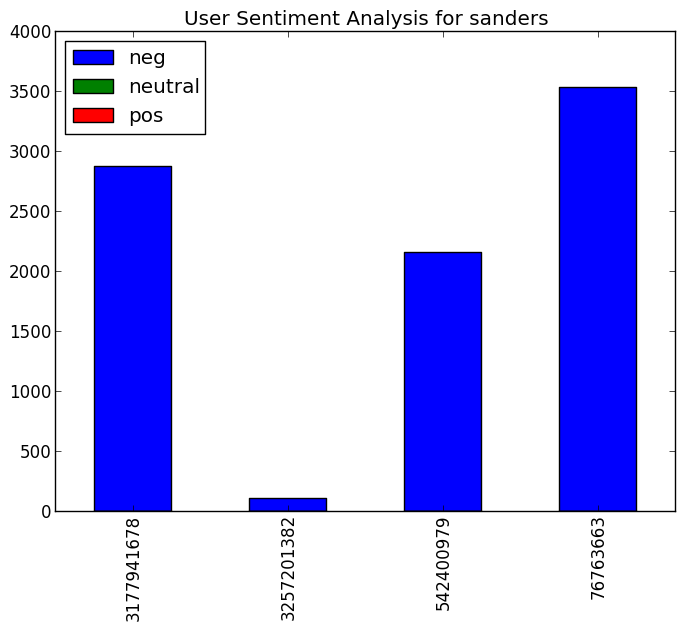
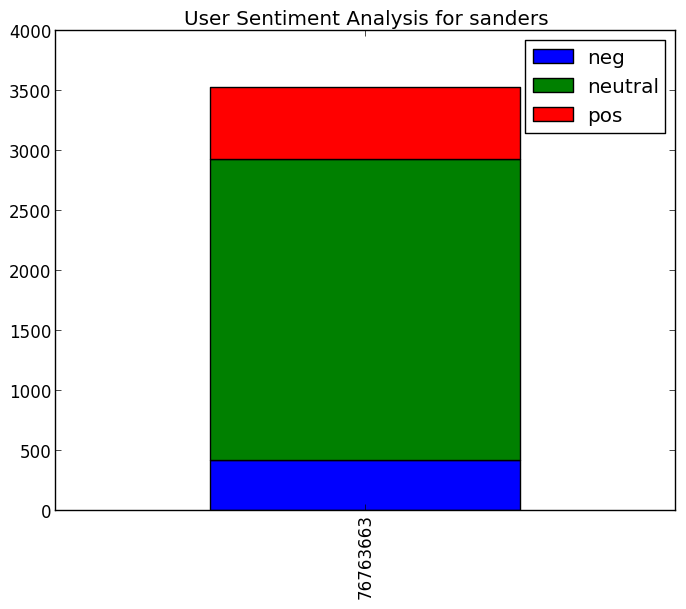
Updated candidate tweet count

diff --git a/Analysis/TweetSAnalDrive.py b/Analysis/TweetSAnalDrive.py
@@ -39,7 +39,7 @@ def main():
 
         list_of_userids = []
         list_of_list_of_tweets = []
-        list_of_candidates = ["sanders", "carson", "bush", "cruz", "clinton"]
+        list_of_candidates = ["kasich", "sanders", "carson", "bush", "cruz", "clinton"]
         for candidate in list_of_candidates:
             list_of_userids = []
             list_of_list_of_tweets = []
@@ -47,7 +47,7 @@ def main():
             for user in final_result:
                 list_of_userids.append(str(getattr(user, "user_id")))
                 list_of_list_of_tweets.append(getattr(user, "list_of_tweets"))
-            print [[list_of_list_of_tweets[0][0]]]
+            #print [[list_of_list_of_tweets[0][0]]]
             types = AnalysisObjectFactory.createObject("TweetSentimentAnalysis",candidate,["3/6/2016", "4/5/2016"],list_of_userids, list_of_list_of_tweets)
         #types = AnalysisObjectFactory.createObject("TweetSentimentAnalysis","kasich",["3/6/2016", "4/5/2016"],[list_of_userids[0]], [[u"I fell da bernz mutilate fun happy"]])
 

diff --git a/Analysis/TweetSentimentAnalysis.py b/Analysis/TweetSentimentAnalysis.py
@@ -64,7 +64,7 @@ class TweetSentimentAnalysis(AnalysisObject):
 				clean_tweet.append(_cleanTweet(stt,name))
 			for stt in clean_tweet:
 				#p = subprocess.Popen("curl -d text='"+str(stt)+"' http://text-processing.com/api/sentiment/", shell=True,stdout=subprocess.PIPE).communicate()[0]
-                                print stt
+                                #print stt
                                 try:
                                     stt = str(stt)
      
@@ -93,9 +93,9 @@ class TweetSentimentAnalysis(AnalysisObject):
                                     good = 1
 
                                 #print p		
-                                #p1 = p.body
+                                p1 = p.body
                                
-                                p1 = {"label" : "neg"}
+                                
                                 try:
 				    if p1["label"] == "neg":
 				        neg = neg +1

diff --git a/Analysis/jsonize.py b/Analysis/jsonize.py
@@ -47,8 +47,6 @@ def getTwitterObjectCandidate(candidate_name):
 	print len(this_candidate_counts)
 	print this_candidate_counts
 	#append 0's if missing data THIS MAY NOT WORK, MAY BE ONE TOO MANY
-	for i in range(len(this_candidate_counts),len(days)*24):
-		this_candidate_counts.append(0)
 	return AnalysisObject(candidate_name, datasource, dates, this_candidate_counts[0:len(days)-1])
 
 
